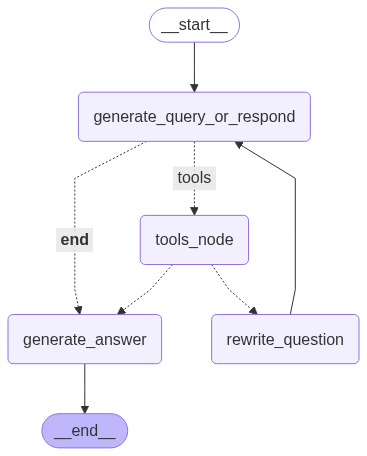
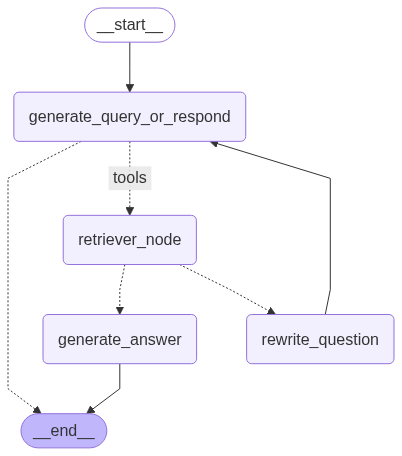
back to returning from the first node if possible

diff --git a/app/services/rag_service_agentic.py b/app/services/rag_service_agentic.py
@@ -60,19 +60,20 @@ class RAGServiceAgentic:
         # If we need to retrieve, "response" will contain a tool call
         # If we don't need to retrieve, "response" will contain a message with the answer
         def generate_query_or_respond(state: MessagesState):
-            """Decide to retrieve, or simply respond to the user."""
+            """Decide to retrieve, or simply respond to the user.
+            Takes all the messages in the state and returns a response."""
             response = llm_service.llm.bind_tools([retriever_tool]).invoke(state["messages"])
             return {"messages": [response]}
         
         workflow.add_node(generate_query_or_respond)
         workflow.add_edge(START, "generate_query_or_respond")
-        workflow.add_node("tools_node", ToolNode([retriever_tool]))
+        workflow.add_node("retriever_node", ToolNode([retriever_tool]))
         workflow.add_conditional_edges(
             "generate_query_or_respond",
             tools_condition, # LangGraph's function to check if the LLM's response contains tool calls
             {
-                "tools": "tools_node", # if there is tool call, go to the tools node
-                END: "generate_answer", # if there is not tool call, go to the end node
+                "tools": "retriever_node", # if there is tool call, go to the tools node
+                END: END, # if there is not tool call, go to the end node
             },
         )
 
@@ -118,7 +119,7 @@ class RAGServiceAgentic:
                 return "rewrite_question"
             
         workflow.add_conditional_edges(
-            "tools_node",
+            "retriever_node",
             grade_documents
         )
         workflow.add_edge("rewrite_question", "generate_query_or_respond")
@@ -141,9 +142,10 @@ class RAGServiceAgentic:
             logger.info("Starting RAG query", query_id=query_id, question=question)
                     
             # Prepare initial state with system message first
+            sys_prompt_template = "You are an assistant for question-answering tasks. Use three sentences maximum and keep the answer concise. If you don't know the answer even after retrieving the context once or multiple times, just say that you don't know. The question is: {question}"
             initial_state = {
                 "messages": [
-                    HumanMessage(content=question)
+                    HumanMessage(content=sys_prompt_template.format(question=question))
                 ]
             }
             

diff --git a/README.md b/README.md
@@ -1,16 +1,18 @@
 # FastAPI RAG System
 
-A production-ready FastAPI RAG (Retrieval-Augmented Generation) system implementing Phase 1 of the development plan.
+A production-ready FastAPI RAG (Retrieval-Augmented Generation) system with both traditional and agentic RAG implementations using LangGraph.
+This LangGraph has 3 main steps: (1) decide whether to answer or to retrieve content from the vector store; (2) retrieve content and judge whehter that content is relevant to answer the question; (3) answer he question based on the full conversation history ("memory" feature).
 
 ## Features
 
-- **Document Ingestion**: Ingest documents from URLs with automatic chunking and embedding
-- **RAG Queries**: Ask questions and get AI-generated answers based on ingested documents
-- **Streaming Responses**: Real-time streaming of query responses
-- **Section Filtering**: Filter documents by section (beginning, middle, end)
+- **Document Ingestion**: Ingest documents from URLs with automatic chunking and embedding using BeautifulSoup
+- **Dual RAG Modes**:
+  - **Traditional RAG**: Query analysis → retrieval → generation pipeline
+  - **Agentic RAG**: Self-correcting RAG with document grading and query rewriting
+- **Section Filtering**: Filter documents by section (beginning, middle, end) during retrieval
 - **Structured Logging**: Comprehensive logging with structlog
-- **Health Monitoring**: Health check endpoints
 - **API Documentation**: Auto-generated OpenAPI/Swagger documentation
+- **Graph Visualization**: Automatic generation of LangGraph pipeline visualizations
 
 ## Architecture
 
@@ -20,15 +22,21 @@ agentic-rag/
 │   ├── __init__.py
 │   ├── main.py                 # FastAPI application entry point
 │   ├── core/
-│   │   ├── config.py          # Configuration management
-│   │   └── logging.py         # Logging configuration
+│   │   ├── config.py          # Configuration management with Pydantic Settings
+│   │   ├── logging.py         # Structured logging configuration
+│   │   └── prompts.py         # LLM prompt templates
 │   ├── models/
 │   │   ├── requests.py        # Pydantic request models
 │   │   └── responses.py       # Pydantic response models
 │   ├── services/
 │   │   ├── llm_service.py     # LLM and embeddings management
 │   │   ├── document_service.py # Document ingestion and storage
-│   │   └── rag_service.py     # RAG pipeline with LangGraph
+│   │   ├── rag_service.py     # Traditional RAG pipeline with LangGraph
+│   │   ├── rag_service_agentic.py # Agentic RAG pipeline with LangGraph
+│   │   ├── vector_store_factory.py # Vector store factory pattern
+│   │   └── graphs/            # Generated LangGraph visualizations
+│   │       ├── graph_nonagentic.png
+│   │       └── graph_agentic.png
 │   ├── api/
 │   │   ├── deps.py            # Dependency injection
 │   │   └── v1/
@@ -36,11 +44,12 @@ agentic-rag/
 │   │       └── endpoints/
 │   │           ├── health.py   # Health check endpoints
 │   │           ├── documents.py # Document management endpoints
-│   │           └── query.py    # RAG query endpoints
+│   │           └── query.py    # RAG query endpoints (both modes)
 │   └── utils/
 │       └── helpers.py         # Utility functions
 ├── requirements.txt           # Python dependencies
-└── app.py                    # Legacy entry point (redirects to new structure)
+├── sandbox.ipynb            # Development notebook
+└── explore/                 # Exploration and testing files
 ```
 
 ## Installation
@@ -55,19 +64,24 @@ pip install -r requirements.txt
    Create a `.env` file with the following variables:
 
 ```bash
-# OpenAI Configuration
+# OpenAI Configuration (Required)
 OPENAI_API_KEY=your_openai_api_key_here
 
-# Application Configuration (optional)
+# Application Configuration (Optional)
 DEBUG=false
 LOG_LEVEL=INFO
 HOST=0.0.0.0
 PORT=8000
 
-# RAG Configuration (optional)
+# LLM Configuration (Optional)
+OPENAI_MODEL=gpt-4o-mini
+EMBEDDING_MODEL=text-embedding-ada-002
+
+# RAG Configuration (Optional)
 CHUNK_SIZE=1000
 CHUNK_OVERLAP=200
 MAX_DOCS_RETRIEVAL=4
+VECTOR_STORE_TYPE=in_memory
 ```
 
 ## Usage
@@ -75,11 +89,11 @@ MAX_DOCS_RETRIEVAL=4
 ### Running the Application
 
 ```bash
-# Using the new structure
+# Using the module syntax (recommended)
 python -m app.main
 
-# Or using the legacy entry point
-python app.py
+# Or directly
+python app/main.py
 ```
 
 The application will start on `http://localhost:8000`
@@ -91,123 +105,90 @@ The application will start on `http://localhost:8000`
 
 ### API Endpoints
 
-#### Health Check
-
-- `GET /api/v1/health` - Check application health
-
 #### Document Management
 
-- `POST /api/v1/documents/ingest` - Ingest a document from URL
+- `POST /api/v1/documents/ingest` - Ingest documents from URLs (accepts list)
 - `GET /api/v1/documents` - List all ingested documents
 - `GET /api/v1/documents/{doc_id}` - Get specific document
 - `DELETE /api/v1/documents/{doc_id}` - Delete a document
 
 #### RAG Queries
 
-- `POST /api/v1/query` - Submit a RAG query
-- `GET /api/v1/query/{query_id}` - Get query result by ID
-- `POST /api/v1/query/stream` - Stream a RAG query response
+- `POST /api/v1/query` - Submit a traditional RAG query
+- `POST /api/v1/query-agentic` - Submit an agentic RAG query (with self-correction)
 
-### Example Usage
+## RAG Pipeline Modes
 
-#### 1. Ingest a Document
+### Traditional RAG Pipeline
 
-```bash
-curl -X POST "http://localhost:8000/api/v1/documents/ingest" \
-  -H "Content-Type: application/json" \
-  -d '{
-    "source_type": "url",
-    "content": "https://example.com/article",
-    "metadata": {"title": "Example Article"}
-  }'
-```
+The traditional RAG pipeline follows a linear approach:
 
-#### 2. Submit a Query
+1. **Query Analysis**: Extracts search parameters and section filters
+2. **Document Retrieval**: Searches vector store for relevant documents
+3. **Answer Generation**: Generates response using retrieved context
 
-```bash
-curl -X POST "http://localhost:8000/api/v1/query" \
-  -H "Content-Type: application/json" \
-  -d '{
-    "question": "What is the main topic of the article?",
-    "max_docs": 4,
-    "section_filter": "beginning"
-  }'
-```
+### Agentic RAG Pipeline
 
-#### 3. Stream a Query
+The agentic RAG pipeline includes self-correction mechanisms:
 
-```bash
-curl -X POST "http://localhost:8000/api/v1/query/stream" \
-  -H "Content-Type: application/json" \
-  -d '{
-    "question": "Summarize the key points",
-    "max_docs": 4
-  }'
-```
+1. **Query or Respond**: Decides whether to retrieve documents or respond directly
+2. **Document Retrieval**: Uses retriever tool to fetch relevant documents
+3. **Document Grading**: Evaluates relevance of retrieved documents
+4. **Query Rewriting**: Rewrites query if documents are not relevant
+5. **Answer Generation**: Generates final response with validated context
 
 ## Configuration
 
 The application uses Pydantic Settings for configuration management. All settings can be configured via environment variables:
 
-### Vector Store Configuration
-
-The system supports multiple vector store backends through a factory pattern:
-
-- **in_memory** (default): Fast, ephemeral storage for development
-- **chroma**: Persistent vector database (requires `pip install langchain-chroma`)
-- **faiss**: High-performance similarity search (requires `pip install faiss-cpu`)
-
-To switch vector stores, set the `VECTOR_STORE_TYPE` environment variable:
-
-```bash
-# Use Chroma for persistent storage
-export VECTOR_STORE_TYPE=chroma
-
-# Use FAISS for high-performance search
-export VECTOR_STORE_TYPE=faiss
-```
-
-### All Configuration Options
-
-- `OPENAI_API_KEY`: Required OpenAI API key
-- `DEBUG`: Enable debug mode (default: false)
-- `LOG_LEVEL`: Logging level (default: INFO)
-- `HOST`: Server host (default: 0.0.0.0)
-- `PORT`: Server port (default: 8000)
-- `CHUNK_SIZE`: Document chunk size (default: 1000)
-- `CHUNK_OVERLAP`: Chunk overlap (default: 200)
-- `MAX_DOCS_RETRIEVAL`: Maximum documents to retrieve (default: 4)
-- `VECTOR_STORE_TYPE`: Vector store type: in_memory, chroma, faiss (default: in_memory)
-
 ## Technology Stack
 
 - **FastAPI**: Modern, fast web framework for building APIs
 - **LangChain**: Framework for developing applications with LLMs
-- **LangGraph**: Library for building stateful, multi-actor applications
-- **OpenAI**: LLM and embedding models
+- **LangGraph**: Library for building stateful, multi-actor applications with graphs
+- **OpenAI**: LLM and embedding models (GPT-4o-mini, text-embedding-ada-002)
 - **Pydantic**: Data validation and settings management
 - **Structlog**: Structured logging
-- **BeautifulSoup**: HTML parsing for web scraping
+- **BeautifulSoup**: HTML parsing for web scraping with CSS class filtering
 - **Vector Store Factory**: Configurable vector storage backends (InMemory, Chroma, FAISS)
 
-## Limitations (Phase 1)
+## Document Processing
 
-- Default in-memory vector storage (data is lost on restart - switch to Chroma/FAISS for persistence)
-- Document deletion support varies by vector store implementation
-- Basic error handling and validation
-- No authentication or authorization
-- No rate limiting
-- No persistent storage
+The system uses BeautifulSoup with CSS class filtering to extract content from web pages:
 
-## Next Steps (Phase 2 & 3)
+- Targets specific CSS classes: `post-content`, `post-title`, `post-header`
+- Automatically chunks documents using RecursiveCharacterTextSplitter
+- Adds section metadata (beginning, middle, end) to chunks for filtering
+- Supports metadata attachment during ingestion
 
-- Implement persistent vector database (Chroma, Pinecone, etc.)
+## Current Limitations
+
+- **Limited Document Embedding**: URL scraping limited by our sample (target) HTML structure
+- **Vector Store Persistence**: Default in-memory storage loses data on restart
+- **Document Deletion**: Limited support varies by vector store implementation
+- **Content Extraction**: Currently optimized for blog posts with specific CSS classes
+- **Authentication**: No authentication or authorization implemented
+- **Rate Limiting**: No rate limiting implemented
+- **Error Recovery**: Basic error handling without retry mechanisms
+
+## Development Features
+
+- **Graph Visualization**: Automatic generation of LangGraph pipeline diagrams
+- **Structured Logging**: Comprehensive logging with query tracking
+- **Development Notebook**: Included sandbox.ipynb for experimentation
+- **Modular Architecture**: Clean separation of concerns with dependency injection
+
+## Next Steps
+
+- Implement persistent vector database configuration
 - Add authentication and authorization
 - Implement rate limiting and caching
 - Add comprehensive monitoring and metrics
-- Implement batch processing
-- Add support for multiple document types
-- Enhanced error handling and recovery
+- Support for multiple document types (PDF, DOCX, etc.)
+- Enhanced error handling and recovery mechanisms
 - Unit and integration tests
 - Docker containerization
 - CI/CD pipeline
+- Streaming response support
+- Batch document processing
+- ...
